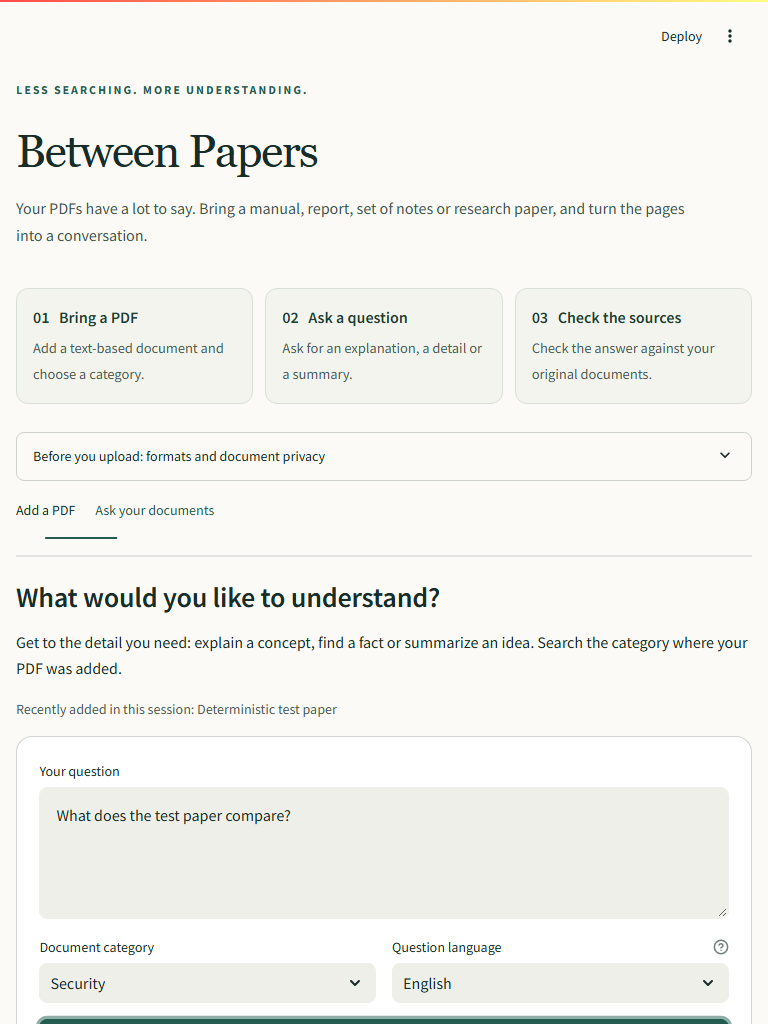
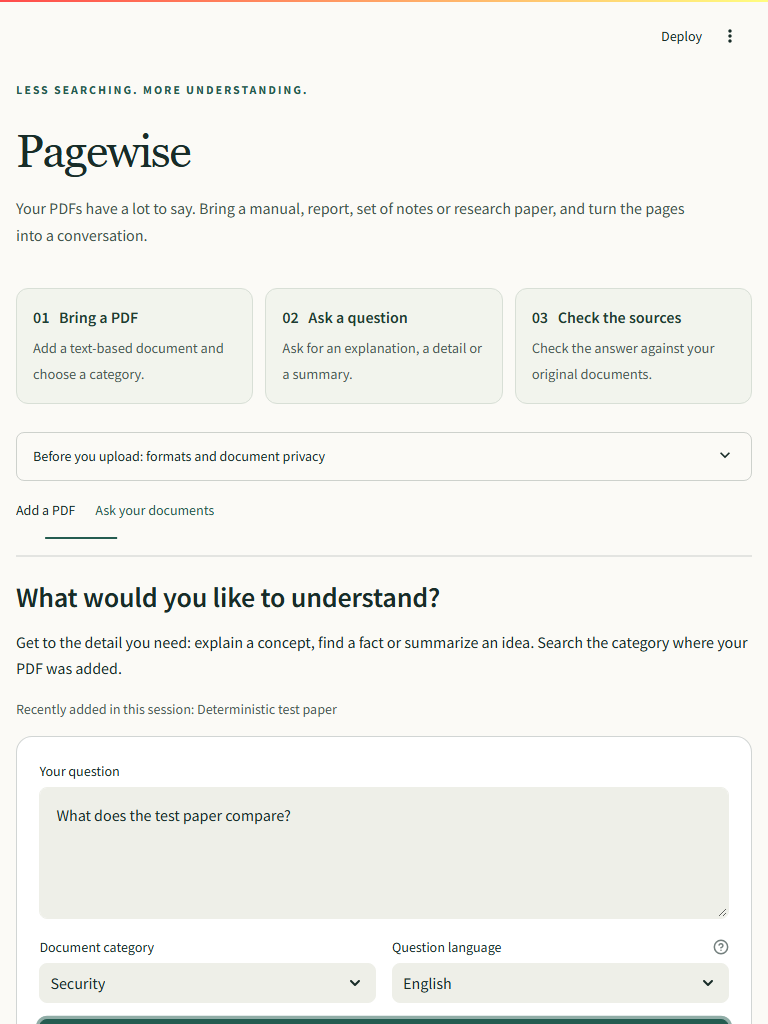
Rename the PDF conversation workspace to Pagewise

Changed region(s): [[0.0312, 0.125, 0.4062, 0.1875]]

diff --git a/frontend/app.py b/frontend/app.py
@@ -38,7 +38,7 @@ def post(path, **kwargs):
     return None
 
 
-st.set_page_config(page_title="Between Papers", page_icon=":books:", layout="wide")
+st.set_page_config(page_title="Pagewise", page_icon=":books:", layout="wide")
 st.markdown("""
 <style>
 .block-container { max-width: 1120px; padding-top: 5rem; padding-bottom: 3rem; }
@@ -63,7 +63,7 @@ h1 { font-family: Georgia, serif !important; font-weight: 500 !important; font-s
 </style>
 <div class="workspace-kicker">LESS SEARCHING. MORE UNDERSTANDING.</div>
 """, unsafe_allow_html=True)
-st.title("Between Papers")
+st.title("Pagewise")
 st.markdown('<p class="workspace-intro">Your PDFs have a lot to say. Bring a manual, report, set of notes or research paper, and turn the pages into a conversation.</p>', unsafe_allow_html=True)
 st.markdown("""
 <div class="workflow" aria-label="How it works">

diff --git a/tests/browser_check.py b/tests/browser_check.py
@@ -28,7 +28,7 @@ with sync_playwright() as p:
     for name, width, height in [('phone', 390, 844), ('tablet', 768, 1024), ('desktop', 1440, 1500)]:
         page = browser.new_page(viewport={'width': width, 'height': height})
         page.goto(os.getenv('BROWSER_TEST_URL', 'http://127.0.0.1:18502'))
-        page.get_by_role('heading', name='Between Papers', exact=True).wait_for()
+        page.get_by_role('heading', name='Pagewise', exact=True).wait_for()
         assert page.get_by_role('tab').first.inner_text() == 'Add a PDF'
         assert page.get_by_role('tab', name='Add a PDF').get_attribute('aria-selected') == 'true'
         assert 'General documents' in page.locator('[role=tabpanel]:visible').get_by_test_id('stSelectbox').first.inner_text()

diff --git a/agent-service/app/vector_store.py b/agent-service/app/vector_store.py
@@ -39,7 +39,7 @@ def _collection_schema() -> CollectionSchema:
         FieldSchema(name="text_chunk", dtype=DataType.VARCHAR, max_length=65535),
         FieldSchema(name="embedding", dtype=DataType.FLOAT_VECTOR, dim=config.MILVUS_DIMENSION),
     ]
-    return CollectionSchema(fields=fields, description="Academic paper chunks for Between Papers")
+    return CollectionSchema(fields=fields, description="Document chunks for Pagewise")
 
 
 def ensure_collection(index_type: str = "HNSW") -> Collection:

diff --git a/agent-service/app/config.py b/agent-service/app/config.py
@@ -4,7 +4,7 @@ import os
 SUPPORTED_LANGUAGES = {"en", "es", "fr", "it"}
 SUPPORTED_DOMAINS = {"AI", "Security", "Other"}
 
-APP_NAME = "Between Papers Document API"
+APP_NAME = "Pagewise Document API"
 APP_VERSION = "1.1.0"
 
 GOOGLE_API_KEY = os.getenv("GOOGLE_API_KEY", "")

diff --git a/README.md b/README.md
@@ -1,8 +1,8 @@
-# Between Papers
+# Pagewise
 
-**Discover connections across research.**
+**Understand your PDFs, one question at a time.**
 
-**[Open Between Papers](https://between-papers.onrender.com)** ? hosted on Render free services.
+**[Open Pagewise](https://between-papers.onrender.com)** ? hosted on Render free services.
 The first request after inactivity can take longer while services wake up.
 
 [![Python checks](https://github.com/ManeswarSahu11/between-papers/actions/workflows/checks.yml/badge.svg)](https://github.com/ManeswarSahu11/between-papers/actions/workflows/checks.yml)
@@ -21,7 +21,7 @@ then ask in one of four languages and review the source document titles.
 
 ## Workspace preview
 
-![Between Papers PDF upload workspace](docs/images/live-upload.png)
+![Pagewise PDF upload workspace](docs/images/live-upload.png)
 
 Real public deployment capture of the upload-first workspace.
 [Live answer view](docs/images/live-desktop.png) uses a generated verification

diff --git a/docs/DEPLOYMENT.md b/docs/DEPLOYMENT.md
@@ -128,3 +128,9 @@ The blueprint has been checked locally for YAML syntax and free-plan declaration
 The running services were created through the API rather than this Blueprint.
 Their Docker images built and live workflows passed. Blueprint-flow acceptance
 has not been independently tested.
+
+## App name
+
+The app is now branded Pagewise. Existing `between-papers` repository and Render
+service identifiers are retained so existing URLs and service connections keep
+working. The brand update does not rename collections or move stored documents.

diff --git a/Docker-NLP/README_GKE.md b/Docker-NLP/README_GKE.md
@@ -1,4 +1,4 @@
-# Translator Service for Between Papers
+# Translator Service for Pagewise
 
 This folder now contains a FastAPI translator service for GKE deployment.
 
